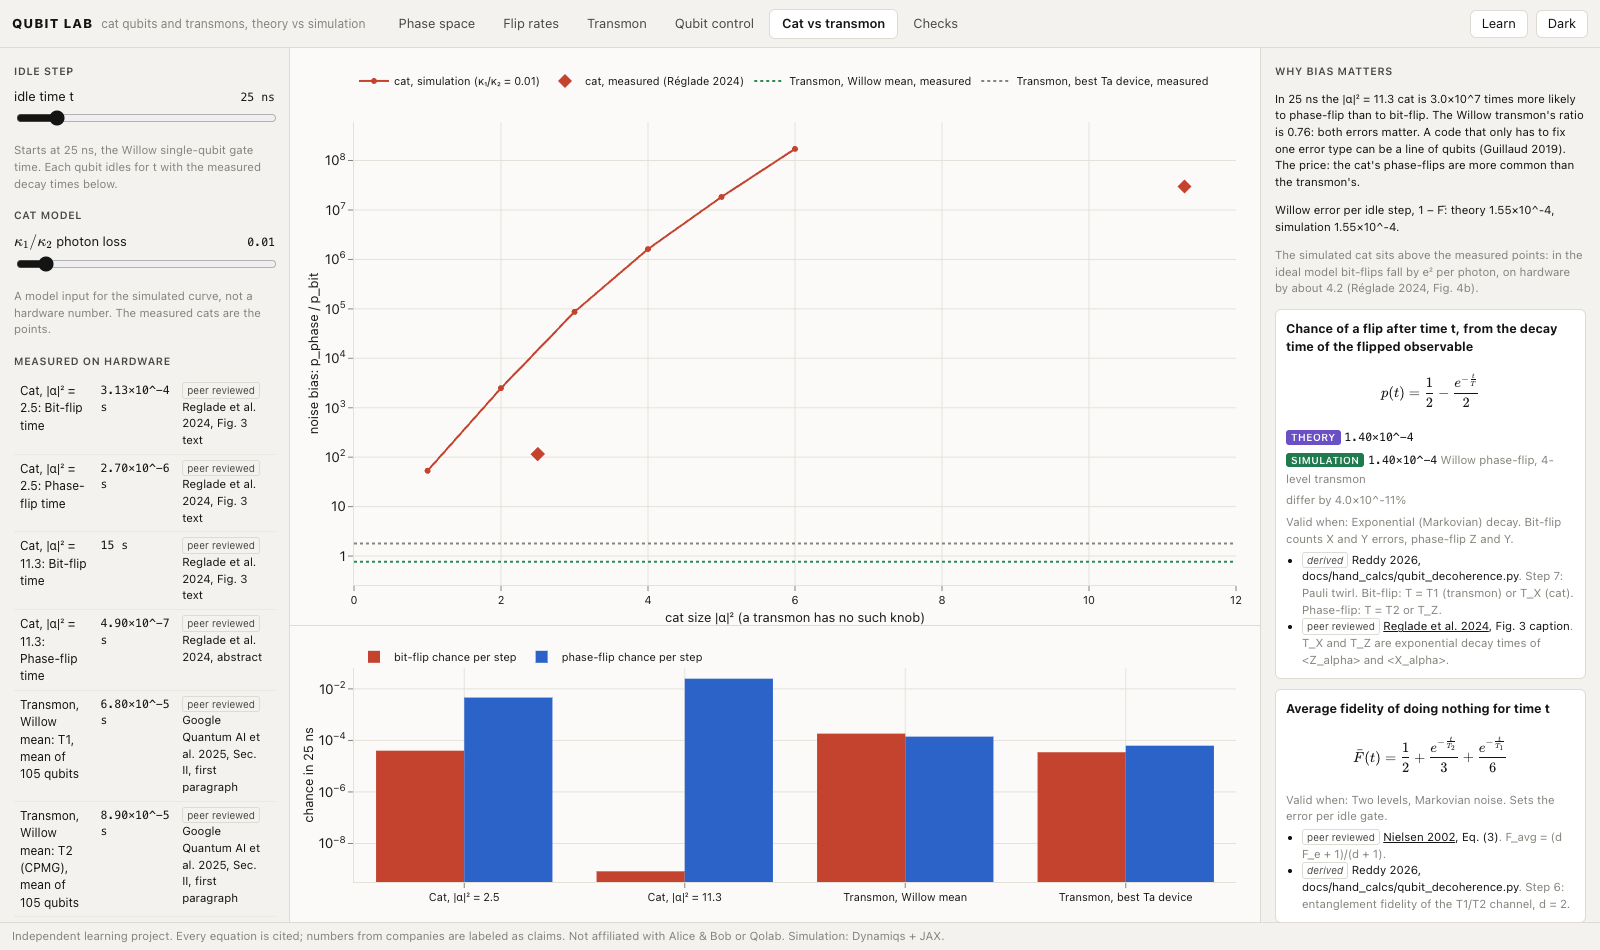
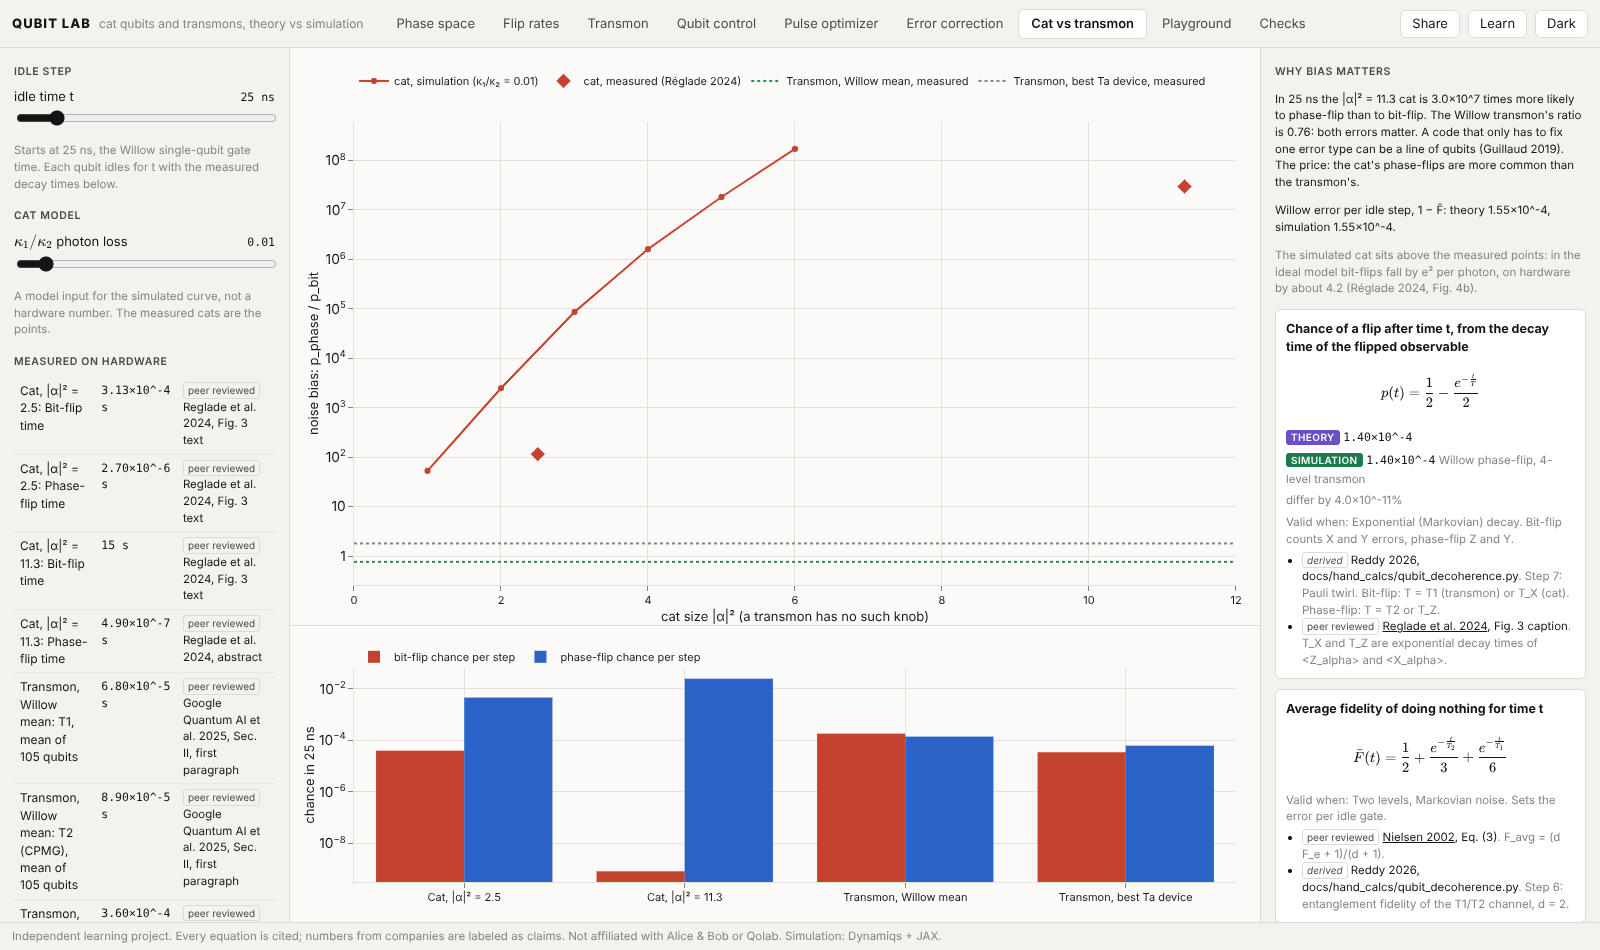
Shareable links: the URL hash holds the view and its inputs
lib/share.ts keeps a base64url JSON object in the hash. useShared is useState
that also writes its value there; the store syncs view, cat params, transmon
ratio and qubit params. A Share button in the top bar copies the link. Links
naming an unknown view fall back to phase space. Playground models in a link
still go through the API's whitelist parser.

diff --git a/web/src/lib/share.ts b/web/src/lib/share.ts
@@ -1,0 +1,49 @@
+// Shareable links: every knob that matters lives in the URL hash, as base64url JSON keyed by
+// name ('view', 'qubit', 'pulse.req', ...). Opening the link restores the same view and inputs.
+
+import { useCallback, useState } from 'react'
+
+export function encode(state: Record<string, unknown>): string {
+  const bytes = new TextEncoder().encode(JSON.stringify(state))
+  let bin = ''
+  for (const b of bytes) bin += String.fromCharCode(b)
+  return btoa(bin).replace(/\+/g, '-').replace(/\//g, '_').replace(/=+$/, '')
+}
+
+export function decode(hash: string): Record<string, unknown> {
+  try {
+    const bin = atob(hash.replace(/-/g, '+').replace(/_/g, '/'))
+    const parsed: unknown = JSON.parse(new TextDecoder().decode(Uint8Array.from(bin, (c) => c.charCodeAt(0))))
+    return parsed && typeof parsed === 'object' && !Array.isArray(parsed) ? (parsed as Record<string, unknown>) : {}
+  } catch {
+    return {}
+  }
+}
+
+const shared: Record<string, unknown> = typeof window === 'undefined' ? {} : decode(window.location.hash.slice(1))
+
+/** The value stored under `key` in the link, or `fallback`. */
+export function fromLink<T>(key: string, fallback: T): T {
+  return key in shared ? (shared[key] as T) : fallback
+}
+
+/** Store `value` under `key` in the link, without adding a browser history entry. */
+export function toLink(key: string, value: unknown): void {
+  shared[key] = value
+  window.history.replaceState(null, '', `#${encode(shared)}`)
+}
+
+/** useState whose value is also kept in the link. */
+export function useShared<T>(key: string, initial: T): [T, (v: T | ((prev: T) => T)) => void] {
+  const [value, setValue] = useState<T>(() => fromLink(key, initial))
+  const set = useCallback(
+    (v: T | ((prev: T) => T)) =>
+      setValue((prev) => {
+        const next = typeof v === 'function' ? (v as (prev: T) => T)(prev) : v
+        toLink(key, next)
+        return next
+      }),
+    [key],
+  )
+  return [value, set]
+}

diff --git a/web/src/App.tsx b/web/src/App.tsx
@@ -1,6 +1,6 @@
 // The explorer shell: top bar with the views, then the active view.
 
-import { useEffect } from 'react'
+import { useEffect, useState } from 'react'
 import { CatVsTransmon } from './views/CatVsTransmon'
 import { Checks } from './views/Checks'
 import { ErrorCorrection } from './views/ErrorCorrection'
@@ -10,6 +10,7 @@ import { Playground } from './views/Playground'
 import { PulseOptimizer } from './views/PulseOptimizer'
 import { Qubit } from './views/Qubit'
 import { Transmon } from './views/Transmon'
+import { toLink } from './lib/share'
 import { type View, useExplorer } from './store'
 
 const VIEWS: { id: View; label: string; hint: string }[] = [
@@ -32,9 +33,24 @@ export default function App() {
   const theme = useExplorer((s) => s.theme)
   const toggleTheme = useExplorer((s) => s.toggleTheme)
 
+  const [copied, setCopied] = useState(false)
+
   useEffect(() => {
     document.documentElement.dataset.theme = theme
   }, [theme])
+
+  // A link from an older or edited URL can name a view that does not exist.
+  useEffect(() => {
+    if (!VIEWS.some((v) => v.id === view)) setView('phase')
+  }, [view, setView])
+
+  const copyLink = () => {
+    toLink('view', view)
+    void navigator.clipboard?.writeText(window.location.href).then(() => {
+      setCopied(true)
+      window.setTimeout(() => setCopied(false), 1500)
+    })
+  }
 
   useEffect(() => {
     const onKey = (e: KeyboardEvent) => {
@@ -74,6 +90,9 @@ export default function App() {
           ))}
         </nav>
         <div className="topbar-spacer" />
+        <button className="btn" onClick={copyLink} title="Copy a link to this view with its current inputs" data-testid="share-link">
+          {copied ? 'Copied' : 'Share'}
+        </button>
         <a className="btn" href={`${REPO}/tree/main/docs/learn`} target="_blank" rel="noreferrer">
           Learn
         </a>

diff --git a/web/src/store.ts b/web/src/store.ts
@@ -1,6 +1,7 @@
 // Explorer state: which view, the knobs, and the playhead. Physics lives in the API.
 
 import { create } from 'zustand'
+import { fromLink, toLink } from './lib/share'
 import type { EvolveParams, QubitParams } from './api'
 
 export type View = 'phase' | 'rates' | 'transmon' | 'qubit' | 'pulse' | 'qec' | 'compare' | 'playground' | 'checks'
@@ -127,13 +128,13 @@ interface ExplorerState {
 const prefersDark = typeof window !== 'undefined' && window.matchMedia?.('(prefers-color-scheme: dark)').matches
 
 export const useExplorer = create<ExplorerState>((set) => ({
-  view: 'phase',
+  view: fromLink<View>('view', 'phase'),
   theme: prefersDark ? 'dark' : 'light',
-  params: base,
+  params: fromLink('params', base),
   frame: 0,
   playing: false,
   showTheory: false,
-  ratio: 50,
+  ratio: fromLink('ratio', 50),
   E_C: 0.3,
   setView: (view) => set({ view }),
   toggleTheme: () => set((s) => ({ theme: s.theme === 'light' ? 'dark' : 'light' })),
@@ -142,6 +143,13 @@ export const useExplorer = create<ExplorerState>((set) => ({
   setPlaying: (playing) => set({ playing }),
   toggleTheory: () => set((s) => ({ showTheory: !s.showTheory })),
   setRatio: (ratio) => set({ ratio }),
-  qubit: qubitBase,
+  qubit: fromLink('qubit', qubitBase),
   setQubit: (p) => set((s) => ({ qubit: { ...s.qubit, ...p } })),
 }))
+
+// Shareable links: these parts of the explorer follow the URL hash (lib/share.ts).
+for (const key of ['view', 'params', 'ratio', 'qubit'] as const) {
+  useExplorer.subscribe((s, prev) => {
+    if (s[key] !== prev[key]) toLink(key, s[key])
+  })
+}

diff --git a/web/src/views/ErrorCorrection.tsx b/web/src/views/ErrorCorrection.tsx
@@ -1,24 +1,24 @@
 // Error correction: the surface code that transmons need, against the repetition code that a
 // biased cat qubit can get away with. Simulation: Stim + PyMatching. Theory: Fowler et al.
 
-import { useState } from 'react'
 import { useCatCode, useQecCurves, useQecShot } from '../api'
 import { CONFIG, Plot, SERIES, layout } from '../components/Plot'
 import { ErrorBanner, FormulaCard, Segmented, Slider } from '../components/ui'
 import { fmt } from '../lib/colormap'
 import { useExplorer } from '../store'
 import { SpaceTimeScene } from '../three/SpaceTime'
+import { useShared } from '../lib/share'
 
 const DISTANCES = [3, 5, 7]
 
 export function ErrorCorrection() {
   const theme = useExplorer((s) => s.theme)
   const c = SERIES[theme]
-  const [d, setD] = useState(5)
-  const [p, setP] = useState(0.005)
-  const [seed, setSeed] = useState(1)
-  const [pPhase, setPPhase] = useState(0.005)
-  const [bias, setBias] = useState(1e4) // p_phase / p_bit
+  const [d, setD] = useShared('qec.d', 5)
+  const [p, setP] = useShared('qec.p', 0.005)
+  const [seed, setSeed] = useShared('qec.seed', 1)
+  const [pPhase, setPPhase] = useShared('qec.p_phase', 0.005)
+  const [bias, setBias] = useShared('qec.bias', 1e4) // p_phase / p_bit
   const curves = useQecCurves()
   const shot = useQecShot(d, p, seed)
   const cat = useCatCode(pPhase, pPhase / bias)

diff --git a/web/src/views/CatVsTransmon.tsx b/web/src/views/CatVsTransmon.tsx
@@ -14,6 +14,7 @@ import { CONFIG, Plot, SERIES, layout } from "../components/Plot";
 import { ErrorBanner, FormulaCard, Slider, shortCite } from "../components/ui";
 import { fmt } from "../lib/colormap";
 import { useExplorer } from "../store";
+import { useShared } from "../lib/share";
 
 const SIZES = [1, 2, 3, 4, 5, 6, 7];
 const WILLOW_GATE_NS = 25; // willow2025, Supplement Sec. I; also a fact in qubitlab.facts
@@ -33,8 +34,8 @@ const bias = (d: CompareDevice | undefined) => d?.theory.bias ?? null;
 export function CatVsTransmon() {
   const theme = useExplorer((s) => s.theme);
   const c = SERIES[theme];
-  const [logT, setLogT] = useState(Math.log10(WILLOW_GATE_NS));
-  const [kappa1, setKappa1] = useState(0.01);
+  const [logT, setLogT] = useShared("compare.log_t", Math.log10(WILLOW_GATE_NS));
+  const [kappa1, setKappa1] = useShared("compare.kappa_1", 0.01);
   const tNs = Math.round(10 ** useDebounced(logT, 300) * 10) / 10;
   const cmp = useCompare(tNs);
   const rates = useRates(

diff --git a/web/src/views/Playground.tsx b/web/src/views/Playground.tsx
@@ -8,6 +8,7 @@ import { ErrorBanner, Segmented, Slider } from '../components/ui'
 import { fmt } from '../lib/colormap'
 import { useExplorer } from '../store'
 import { WignerScene } from '../three/WignerSurface'
+import { useShared } from '../lib/share'
 
 interface Preset {
   id: string
@@ -85,8 +86,8 @@ const INITIALS: { value: Initial; label: string }[] = [
 export function Playground() {
   const theme = useExplorer((s) => s.theme)
   const c = SERIES[theme]
-  const [draft, setDraft] = useState<PlaygroundSpec>(PLAYGROUND_PRESETS[0]?.spec ?? base)
-  const [submitted, setSubmitted] = useState<PlaygroundSpec>(draft)
+  const [submitted, setSubmitted] = useShared<PlaygroundSpec>('playground', PLAYGROUND_PRESETS[0]?.spec ?? base)
+  const [draft, setDraft] = useState<PlaygroundSpec>(submitted)
   const [frame, setFrame] = useState(0)
   const [playing, setPlaying] = useState(true)
   const [copied, setCopied] = useState(false)

diff --git a/web/src/views/FlipRates.tsx b/web/src/views/FlipRates.tsx
@@ -7,6 +7,7 @@ import { CONFIG, Plot, SERIES, layout } from '../components/Plot'
 import { ErrorBanner, FormulaCard, Slider, shortCite } from '../components/ui'
 import { fmt } from '../lib/colormap'
 import { useExplorer } from '../store'
+import { useShared } from '../lib/share'
 
 const SIZES = [0.5, 1, 1.5, 2, 2.5, 3, 3.5, 4, 4.5, 5, 5.5, 6, 6.5, 7]
 
@@ -21,7 +22,7 @@ function useDebounced<T>(value: T, ms: number): T {
 
 export function FlipRates() {
   const theme = useExplorer((s) => s.theme)
-  const [draft, setDraft] = useState<CatParams>({ alpha_sq: 4, kappa_1: 0.1, kappa_phi: 0, n_th: 0, scheme: 'dissipative' })
+  const [draft, setDraft] = useShared<CatParams>('rates', { alpha_sq: 4, kappa_1: 0.1, kappa_phi: 0, n_th: 0, scheme: 'dissipative' })
   const params = useDebounced(draft, 500)
   const q = useRates(params, SIZES)
   const facts = (useFacts().data ?? []).filter((f) => f.qubit === 'cat')

diff --git a/web/e2e/explorer.spec.ts b/web/e2e/explorer.spec.ts
@@ -88,6 +88,18 @@ test('pulse optimizer beats DRAG on a 6 ns gate', async ({ page }) => {
   await page.screenshot({ path: `${IMG}/pulse_optimizer.png` })
 })
 
+test('a shared link restores the view and its inputs', async ({ page, context }) => {
+  await page.goto('/')
+  await page.getByRole('tab', { name: 'Qubit control' }).click()
+  await page.getByTestId('qubit-preset-drag').click()
+  const link = page.url()
+  expect(link).toContain('#')
+  const other = await context.newPage()
+  await other.goto(link)
+  await expect(other.getByRole('tab', { name: 'Qubit control' })).toHaveAttribute('aria-selected', 'true')
+  await expect(other.locator('[data-formula="qubit.drag_quadrature"]')).toBeVisible({ timeout: 120_000 })
+})
+
 test('checks page reports no surprises', async ({ page }) => {
   await page.goto('/')
   await page.getByRole('tab', { name: 'Checks' }).click()

diff --git a/web/src/views/PulseOptimizer.tsx b/web/src/views/PulseOptimizer.tsx
@@ -9,6 +9,7 @@ import { ErrorBanner, FormulaCard, Segmented, Slider } from '../components/ui'
 import { fmt } from '../lib/colormap'
 import { useExplorer } from '../store'
 import { BlochScene } from '../three/BlochSphere'
+import { useShared } from '../lib/share'
 
 type Which = 'drag' | 'optimized'
 
@@ -29,8 +30,8 @@ const steps = (edges: number[], v: number[]) => ({
 
 export function PulseOptimizer() {
   const theme = useExplorer((s) => s.theme)
-  const [knobs, setKnobs] = useState<PulseParams>(START)
-  const [req, setReq] = useState<PulseParams>(START)
+  const [req, setReq] = useShared<PulseParams>('pulse', START)
+  const [knobs, setKnobs] = useState<PulseParams>(req)
   const [which, setWhich] = useState<Which>('optimized')
   const run = usePulse(req)
   const d = run.data?.sim

diff --git a/web/src/lib/share.test.ts b/web/src/lib/share.test.ts
@@ -1,0 +1,17 @@
+import { describe, expect, it } from 'vitest'
+import { decode, encode } from './share'
+
+describe('share links', () => {
+  it('round-trips state, including non-ASCII text', () => {
+    const state = { view: 'playground', playground: { hamiltonian: '-K*ad**2*a**2', note: 'κ₁ ≈ |α|²' }, qec: { d: 5 } }
+    expect(decode(encode(state))).toEqual(state)
+  })
+  it('uses only URL-safe characters', () => {
+    expect(encode({ x: '???>>>~~~' })).toMatch(/^[A-Za-z0-9_-]*$/)
+  })
+  it('ignores a broken or non-object hash', () => {
+    expect(decode('not base64!')).toEqual({})
+    expect(decode(encode({}).slice(0, 0))).toEqual({})
+    expect(decode(btoa('[1,2]'))).toEqual({})
+  })
+})

diff --git a/README.md b/README.md
@@ -42,6 +42,8 @@ Three layers, kept apart by a test:
 
 ## Learn
 
+Every view has a **Share** button. The link it copies reopens the same view with the same inputs.
+
 Start with [docs/learn/](docs/learn/): ten one-screen pages. Every equation is listed with its source in [docs/reference/formulas.md](docs/reference/formulas.md), and every comparison in [docs/reference/checks.md](docs/reference/checks.md).
 
 ## Limits
